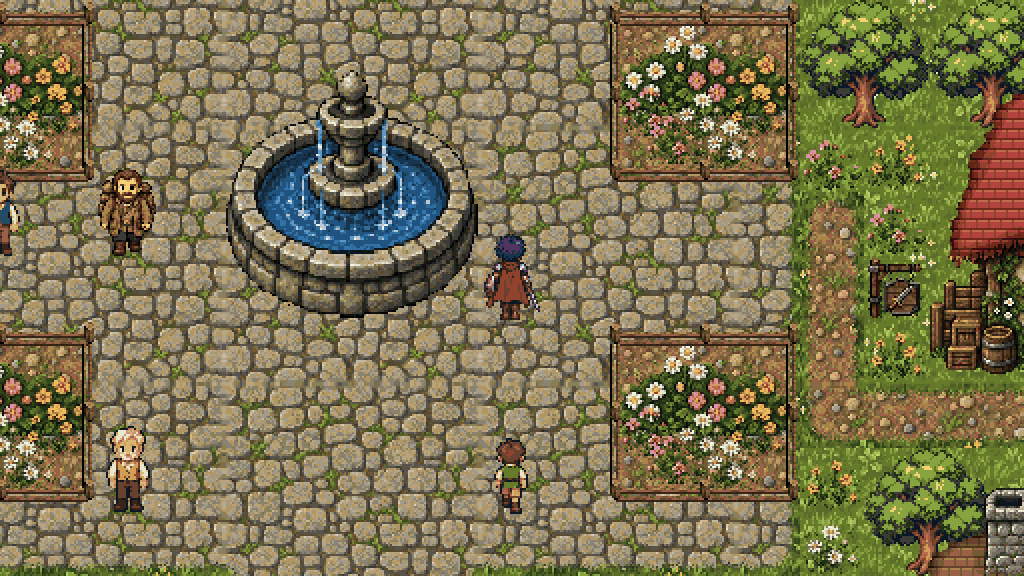
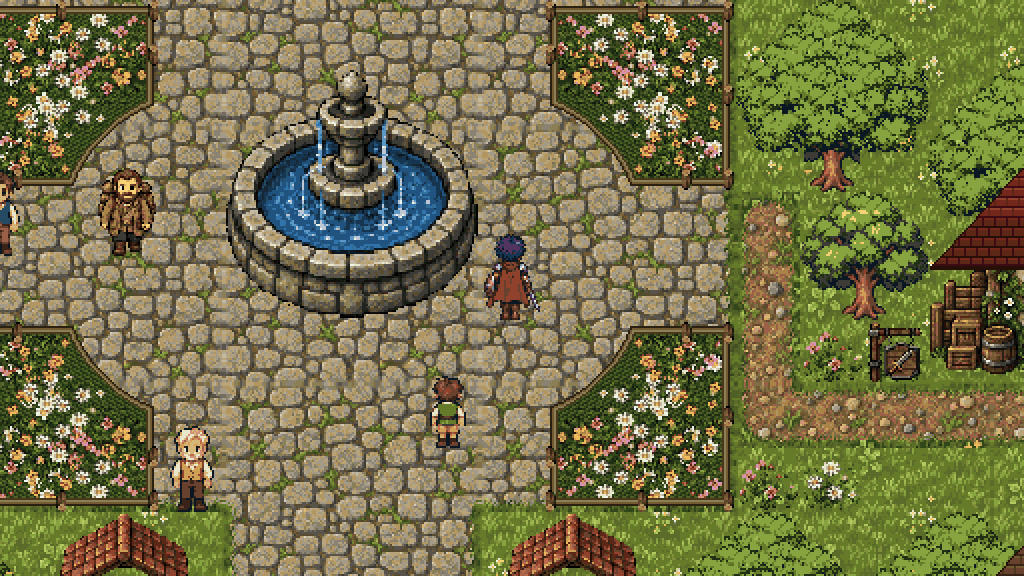
城下町の修正後の比較画像・検査・記録を更新する
目標・変更前・採用時・修正後の比較画像と、通常操作の実画面を撮り直す。
検査に修正4点（切妻屋根・木の固まり・石畳の面積・花壇の向き）を加え、案A・Cの画像は20fdaabの記録とする。

Claude-Session: https://claude.ai/code/session_014N6nJw8CEZAjPXfFKyyS9r

diff --git a/tools/check_castle_town_polish.py b/tools/check_castle_town_polish.py
@@ -1,7 +1,8 @@
 #!/usr/bin/env python3
-"""城下町の見た目の仕上げ（2026年9月28日の依頼6項目）を、本番配置データから機械検査する。
+"""城下町の見た目の仕上げ（2026年9月28日の依頼6項目と、案B採用後の修正4点）を、本番配置データから機械検査する。
 
 比較の相手は、この作業の直前のコミット 07ac451（城下町・城の採用後の最終コミット）に固定する。
+修正4点の「道幅を細く」は、依頼者が見た案Bのコミット 20fdaab と比べる。
 城下町（first_castle の部屋0）以外の部屋・地図、扉と部屋の対応、人物の役と台詞が変わっていないことも確かめる。
 主観の評価（目標の絵に近いか）はここでは判定せず、確認画像で依頼者が判断する。
 """
@@ -12,11 +13,12 @@ from pathlib import Path
 
 ROOT = Path(__file__).resolve().parents[1]
 BASE = '07ac451'
+ADOPTED = '20fdaab'  # 依頼者が採用した案Bの提出時点
 NODE = 'first_castle'
 
 
-def at_base(path):
-    return json.loads(subprocess.run(['git', 'show', f'{BASE}:{path}'], cwd=ROOT, capture_output=True, check=True).stdout)
+def at_base(path, commit=BASE):
+    return json.loads(subprocess.run(['git', 'show', f'{commit}:{path}'], cwd=ROOT, capture_output=True, check=True).stdout)
 
 
 def now(path):
@@ -45,7 +47,8 @@ def main():
         return [l for l in layers if l['name'] in (stem, 'natural_' + stem, 'bright_' + stem)]
 
     # (1) 丸い木20本以上。家の周り（家の庭＝家から5セル以内）と町の縁（外周から4セル以内）に置かれている
-    trees = named('tree_oak')
+    # 修正：大きな丸い木（3×3セル）を6本以上。どの木も隣り合う木（1セル以内）を持ち、2〜3本ずつ固まる
+    trees = named('tree_oak') + named('tree_round_large')
     houses = [l for l in layers if 'house' in l['name'] or l['name'] in ('natural_church', 'natural_manor')]
     house_cells = set().union(*[cells(l) for l in houses])
     near = 0
@@ -56,6 +59,19 @@ def main():
         near += edge or house
     check(len(trees) >= 20, f'(1) 丸い木が20本以上: {len(trees)}本')
     check(near == len(trees), f'(1) 木はすべて家の周りか町の縁: {near}/{len(trees)}')
+    large = named('tree_round_large')
+    check(len(large) >= 6, f'修正2 大きな丸い木（3×3セル）が6本以上: {len(large)}本')
+    lonely = []
+    for tree in trees:
+        others = [o for o in trees if o is not tree]
+        if not any(abs(x - ox) <= 1 and abs(y - oy) <= 1 for x, y in cells(tree) for o in others for ox, oy in cells(o)):
+            lonely.append(min(cells(tree)))
+    check(not lonely, f'修正2 どの木も隣り合う木を持つ（2〜3本の固まり）: 孤立 {lonely}')
+    rows = {}
+    for tree in trees:
+        rows.setdefault(min(y for _, y in cells(tree)), []).append(tree)
+    lined = max(len(v) for v in rows.values())
+    check(lined <= 4, f'修正2 同じ行に並ぶ木は4本まで（生け垣のような一列を作らない）: 最大{lined}本')
 
     # (2) 門から噴水へまっすぐな十字の石畳：南北の門の間の4列が途切れない石畳、東西の2行が外壁の内側まで続く
     cobble = set().union(*[cells(l) for l in named('cobble')]) if named('cobble') else set()
@@ -63,14 +79,15 @@ def main():
     horizontal = all((x, y) in cobble for x in range(2, town['width'] - 2) for y in range(8, 10))
     check(vertical, '(2) 北門から南門まで4マス幅のまっすぐな石畳（噴水の下も石畳）')
     check(horizontal, '(2) 東西の外壁まで2マス幅のまっすぐな石畳')
+    adopted = at_base('world/first_region_visuals.json', ADOPTED)['maps'][f'{NODE}:0']
+    adopted_cobble = set().union(*[cells(l) for l in adopted['layers'] if l['name'] == 'cobble'])
+    check(len(cobble) < len(adopted_cobble), f'修正3 石畳のセル数を採用時（20fdaab）より減らす: {len(adopted_cobble)} → {len(cobble)}')
+    check(not any((x, 11) in cobble for x in list(range(2, 12)) + list(range(24, 34))), '修正3 東西の道は2マス幅（噴水の行では広場の外に石畳がない）')
     fountain = named('fountain')
     check(len(fountain) == 1 and min(c[0] for c in fountain[0]['cells']) == 16 and min(c[1] for c in fountain[0]['cells']) == 11, '(2) 噴水は十字の中心列（x16〜19）に初版と同じ位置')
 
     # (3) 噴水のまわりに柵で囲んだ花壇4つ（噴水の四方の斜め、噴水から4セル以内）
-    beds = named('fenced_flowerbed')
-    if not beds:
-        # 案A：既存の柵と花壇を組んだ花壇。柵の横木の行に挟まれた花壇を1つと数える
-        beds = named('flowerbed')
+    beds = [l for l in layers if l['name'].startswith('natural_fenced_flowerbed')]
     fx, fy = 17.5, 12.5
     quadrants = set()
     for bed in beds:
@@ -78,18 +95,24 @@ def main():
         if abs(bx - fx) <= 7 and abs(by - fy) <= 5:
             quadrants.add((bx > fx, by > fy))
     check(len(beds) == 4 and len(quadrants) == 4, f'(3) 噴水の四方の斜めに柵つき花壇4つ: 花壇{len(beds)} 方角{len(quadrants)}')
+    for bed in beds:
+        side = bed['name'].rsplit('_', 1)[1]
+        bx = sum(c[0] for c in bed['cells']) / len(bed['cells']); by = sum(c[1] for c in bed['cells']) / len(bed['cells'])
+        expect = ('n' if by < fy else 's') + ('w' if bx < fx else 'e')
+        check(side == expect, f'修正4 花壇の欠けた角が噴水を向く: {bed["name"]} の位置は {expect}')
 
     # (4) 屋根の色は赤・茶・青だけ。わら屋根（黄色い屋根）の家を使わない
     roof_of = {'town_house_red': '赤', 'town_house_blue': '青', 'manor': '赤', 'church': '青',
-               'wood_house_red': '赤', 'wood_house_brown': '茶', 'wood_house_blue': '青'}
+               'gable_house_red': '赤', 'gable_house_brown': '茶', 'gable_house_blue': '青'}
     kinds = [l['name'].removeprefix('natural_') for l in houses]
     check(all(k in roof_of for k in kinds) and len(kinds) == 6, f'(4) 6棟の屋根が赤・茶・青のどれか: {kinds}')
     check(not any('farm_house' in l['name'] for l in layers), '(4) わら屋根の家を置かない')
-    wooden = sum(k.startswith('wood_house') for k in kinds)
+    wooden = sum(k.startswith('gable_house') for k in kinds)
     check(wooden >= 3, f'(4) 教会以外の5棟のうち過半（3棟以上）が木造の大屋根の家: {wooden}棟')
+    check(wooden == 5, f'修正1 教会以外の5棟すべてが三角の切妻屋根の木造の家: {wooden}棟')
 
     # (5) 家ごとの庭：各家から5セル以内に樽・木箱・井戸・花のどれかがある。井戸が1つ以上
-    props = [l for l in layers if l['name'].removeprefix('natural_') in ('barrels', 'crates', 'well', 'flowers_pink', 'flowers_white', 'flowers_yellow', 'flowerbed', 'fenced_flowerbed')]
+    props = [l for l in layers if l['name'].removeprefix('natural_') in ('barrels', 'crates', 'well', 'flowers_pink', 'flowers_white', 'flowers_yellow', 'flowerbed')]
     prop_cells = set().union(*[cells(l) for l in props])
     for house in houses:
         ok = any(abs(x - px) <= 5 and abs(y - py) <= 5 for x, y in cells(house) for px, py in prop_cells)
@@ -103,7 +126,7 @@ def main():
     grass = {tiles[c[2]]['path'] for c in ground['cells']}
     base_ground = next(l for l in base_visual['maps'][f'{NODE}:0']['layers'] if l['name'] == '地面')
     base_grass = {base_visual['maps'][f'{NODE}:0']['tiles'][c[2]]['path'] for c in base_ground['cells']}
-    check(grass != base_grass and grass <= {'assets/tiles/natural_grass_2.png', 'assets/tiles/natural_grass_meadow.png', 'assets/tiles/natural_grass_meadow_light.png'}, f'(6) 初版の暗い草地 {sorted(base_grass)} から明るい草地 {sorted(grass)} へ')
+    check(grass != base_grass and grass <= {'assets/tiles/natural_grass_meadow.png'}, f'(6) 初版の暗い草地 {sorted(base_grass)} から明るい草地 {sorted(grass)} へ')
     flowers = sum(len(l['cells']) for l in layers if l['name'].removeprefix('natural_').startswith('flowers_'))
     check(flowers >= 30, f'(6) 草地の花が30以上: {flowers}')
 

diff --git a/tools/build_castle_town_polish_review.py b/tools/build_castle_town_polish_review.py
@@ -1,5 +1,5 @@
 #!/usr/bin/env python3
-"""城下町の仕上げ案 A/B/C の比較画像を作る。
+"""城下町の仕上げ（採用した案Bと、その修正）の比較画像を作る。
 
 入力はすべて実際のゲームで撮った画像：
 - variant-X/full-town.png : 本番の描画クラス FirstRegionView で城下町全体を1枚に描いたもの（tools/capture_castle_town_full.gd）
@@ -16,10 +16,9 @@ BEFORE = OUT / 'before-full-town.png'
 FONT = ImageFont.truetype(str(ROOT / 'assets/fonts/notosansjp/NotoSansJP.ttf'), 22)
 SMALL = ImageFont.truetype(str(ROOT / 'assets/fonts/notosansjp/NotoSansJP.ttf'), 18)
 TITLES = {
-    'A': '案A：登録済み素材だけで配置を直す',
-    'B': '案B：木造の大屋根の家・目標の明るさの草地（おすすめ）',
-    'C': '案C：宿屋・道具屋は町家、ほか3棟は木造・一段明るい草地',
+    'B': '案B（採用）を修正：切妻屋根・大きな木の固まり・細い道・花で埋めたL字花壇',
 }
+ADOPTED = OUT / 'variant-B/adopted-full-town.png'  # 依頼者が採用した時点（20fdaab）の本番描画
 BG = '#d6d2bb'
 INK = '#14212b'
 
@@ -43,7 +42,7 @@ def pair(left, left_label, right, right_label, title, out):
 
 
 def main():
-    variants = [v for v in 'ABC' if (OUT / f'variant-{v}/full-town.png').exists()]
+    variants = [v for v in 'B' if (OUT / f'variant-{v}/full-town.png').exists()]
     pair(TARGET, '依頼者の目標画像 IMG_0997', BEFORE, '変更前（07ac451）の本番描画', '変更前と目標', OUT / 'before-comparison.png')
     for v in variants:
         d = OUT / f'variant-{v}'
@@ -53,13 +52,14 @@ def main():
         if shots:
             canvas = Image.new('RGB', (1040, 60 + 300 * ((len(shots) + 1) // 2)), BG)
             draw = ImageDraw.Draw(canvas)
-            draw.text((12, 12), TITLES[v] + ' — 通常操作で歩いた実ゲーム画面（512×288を等倍）', font=SMALL, fill=INK)
+            draw.text((12, 12), '修正後の案B — 通常操作で歩いた実ゲーム画面（512×288を等倍）', font=SMALL, fill=INK)
             for i, s in enumerate(shots):
                 im = Image.open(s).convert('RGB').resize((512, 288), Image.Resampling.BOX)
                 canvas.paste(im, (8 + (i % 2) * 520, 48 + (i // 2) * 300))
             canvas.save(d / 'runtime-sheet.png')
-    # 3案と目標・変更前の一覧
-    cells = [(TARGET, '目標 IMG_0997'), (BEFORE, '変更前')] + [(OUT / f'variant-{v}/full-town.png', TITLES[v]) for v in variants]
+    pair(ADOPTED, '採用時の案B（20fdaab）', OUT / 'variant-B/full-town.png', '修正後', '採用時と修正後', OUT / 'variant-B/adopted-vs-revised.png')
+    # 目標・変更前・採用時・修正後の一覧
+    cells = [(TARGET, '目標 IMG_0997'), (BEFORE, '変更前（07ac451）'), (ADOPTED, '採用時の案B（20fdaab）'), (OUT / 'variant-B/full-town.png', '修正後')]
     cw, ch = 760, 580
     canvas = Image.new('RGB', (cw * 2, 30 + ch * ((len(cells) + 1) // 2)), BG)
     draw = ImageDraw.Draw(canvas)

diff --git a/PLAYTEST_QUEUE.md b/PLAYTEST_QUEUE.md
@@ -91,8 +91,7 @@
 - `walk-preview.gif` と本番の戦闘描画見本で、歩行・攻撃・被弾の違いと大きさを確認する。
 - 12職のうち4職の区切り。残る8職は `docs/sprint3-costumes.md` に記載。
 
-## スプリント5：城下町の見た目の仕上げ（3案）
+## スプリント5：城下町の見た目の仕上げ
 
-- `docs/verification/castle-town-polish/overview.png` と各案の `comparison.png`・`runtime-sheet.png` を目標画像 IMG_0997 と見比べ、1案を選ぶ。おすすめは案B。選ぶまで main へ取り込まない。
-- 板葺きに塗り替えた木造の家の屋根、明るい草地の色、柵つき花壇の見え方が、目標の絵柄として受け入れられるかを確認する。
-- 城下町へ入った直後に主人公が南門のアーチの下で隠れる点（初版から同じ）を直すかどうか。詳細は `docs/castle-town-polish.md`。
+- 2026年9月28日、依頼者が案Bを採用し、屋根・木・道幅・花壇の4点の修正と、南門で主人公が隠れる点の修正を指示した。
+- 修正後の `docs/verification/castle-town-polish/overview.png`・`variant-B/comparison.png`・`variant-B/runtime-sheet.png` を目標画像 IMG_0997 と見比べ、切妻屋根の形、木の固まり方、道幅、花壇の見え方を確認する。

diff --git a/docs/roadmap-v2.md b/docs/roadmap-v2.md
@@ -223,3 +223,5 @@ markdown
 ## スプリント5：城下町の見た目の仕上げ（3案）
 
 2026年9月28日、依頼者の指示で城下町の見た目を目標画像 IMG_0997 へ近づける6点（木・十字の石畳・柵つき花壇・木造の家と屋根の色・庭・明るい草地）を、3案で作った。構造（壁・門・広場・噴水・教会・6棟の位置）、扉と部屋の対応、住人の台詞は保った。有効な配置はおすすめの案B。案Aは登録済み素材だけ、案B・Cは画像生成を使わない派生素材7点を使う。比較画像・検査・残る違いは docs/castle-town-polish.md。依頼者が1案を選ぶまで main へ取り込まず、森の塔・港町にはまだ進まない。
+
+同日、依頼者は案Bを採用し、屋根を三角の切妻に、木を大きな丸い木の2〜3本の固まりに、十字の道と広場を細く、花壇を花で埋めた柵つきの形に直すよう指示した。南門で主人公が門の絵に隠れる点は門を人物より奥に描いて直し、仕様書に「城下町は十字の道、村はゆるく曲がる道」を書き分けた。修正後の確認画像を報告し、main へ取り込める状態にする。
